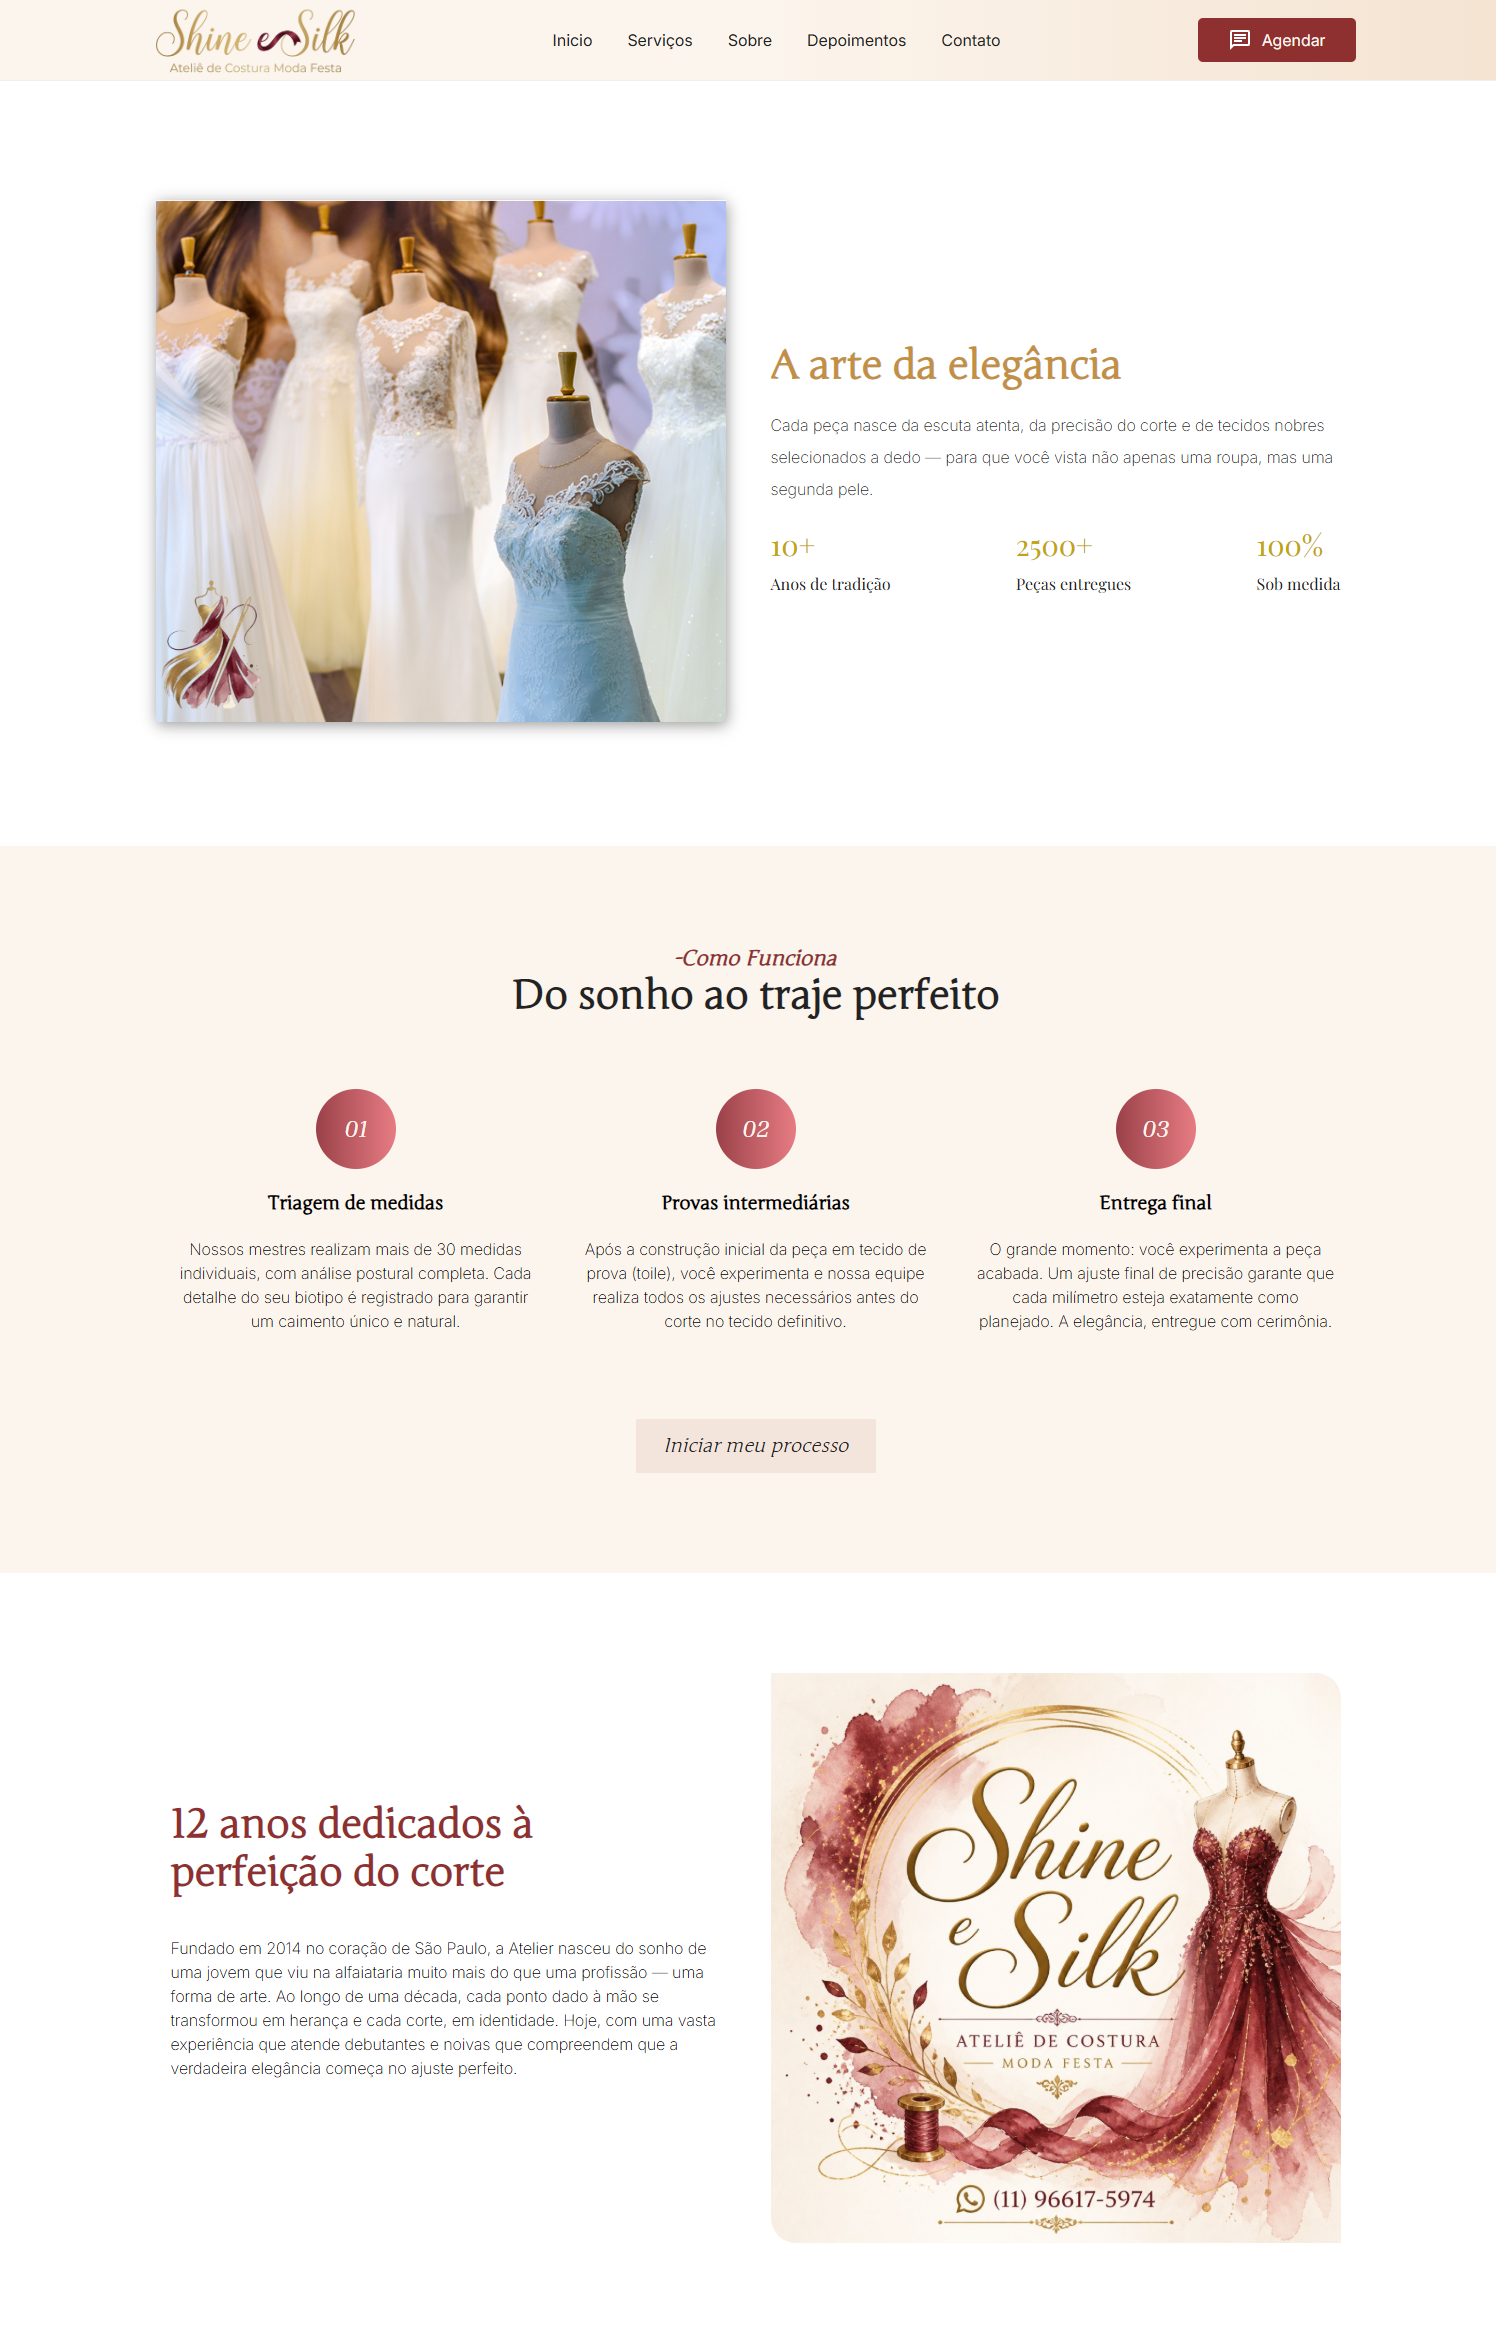
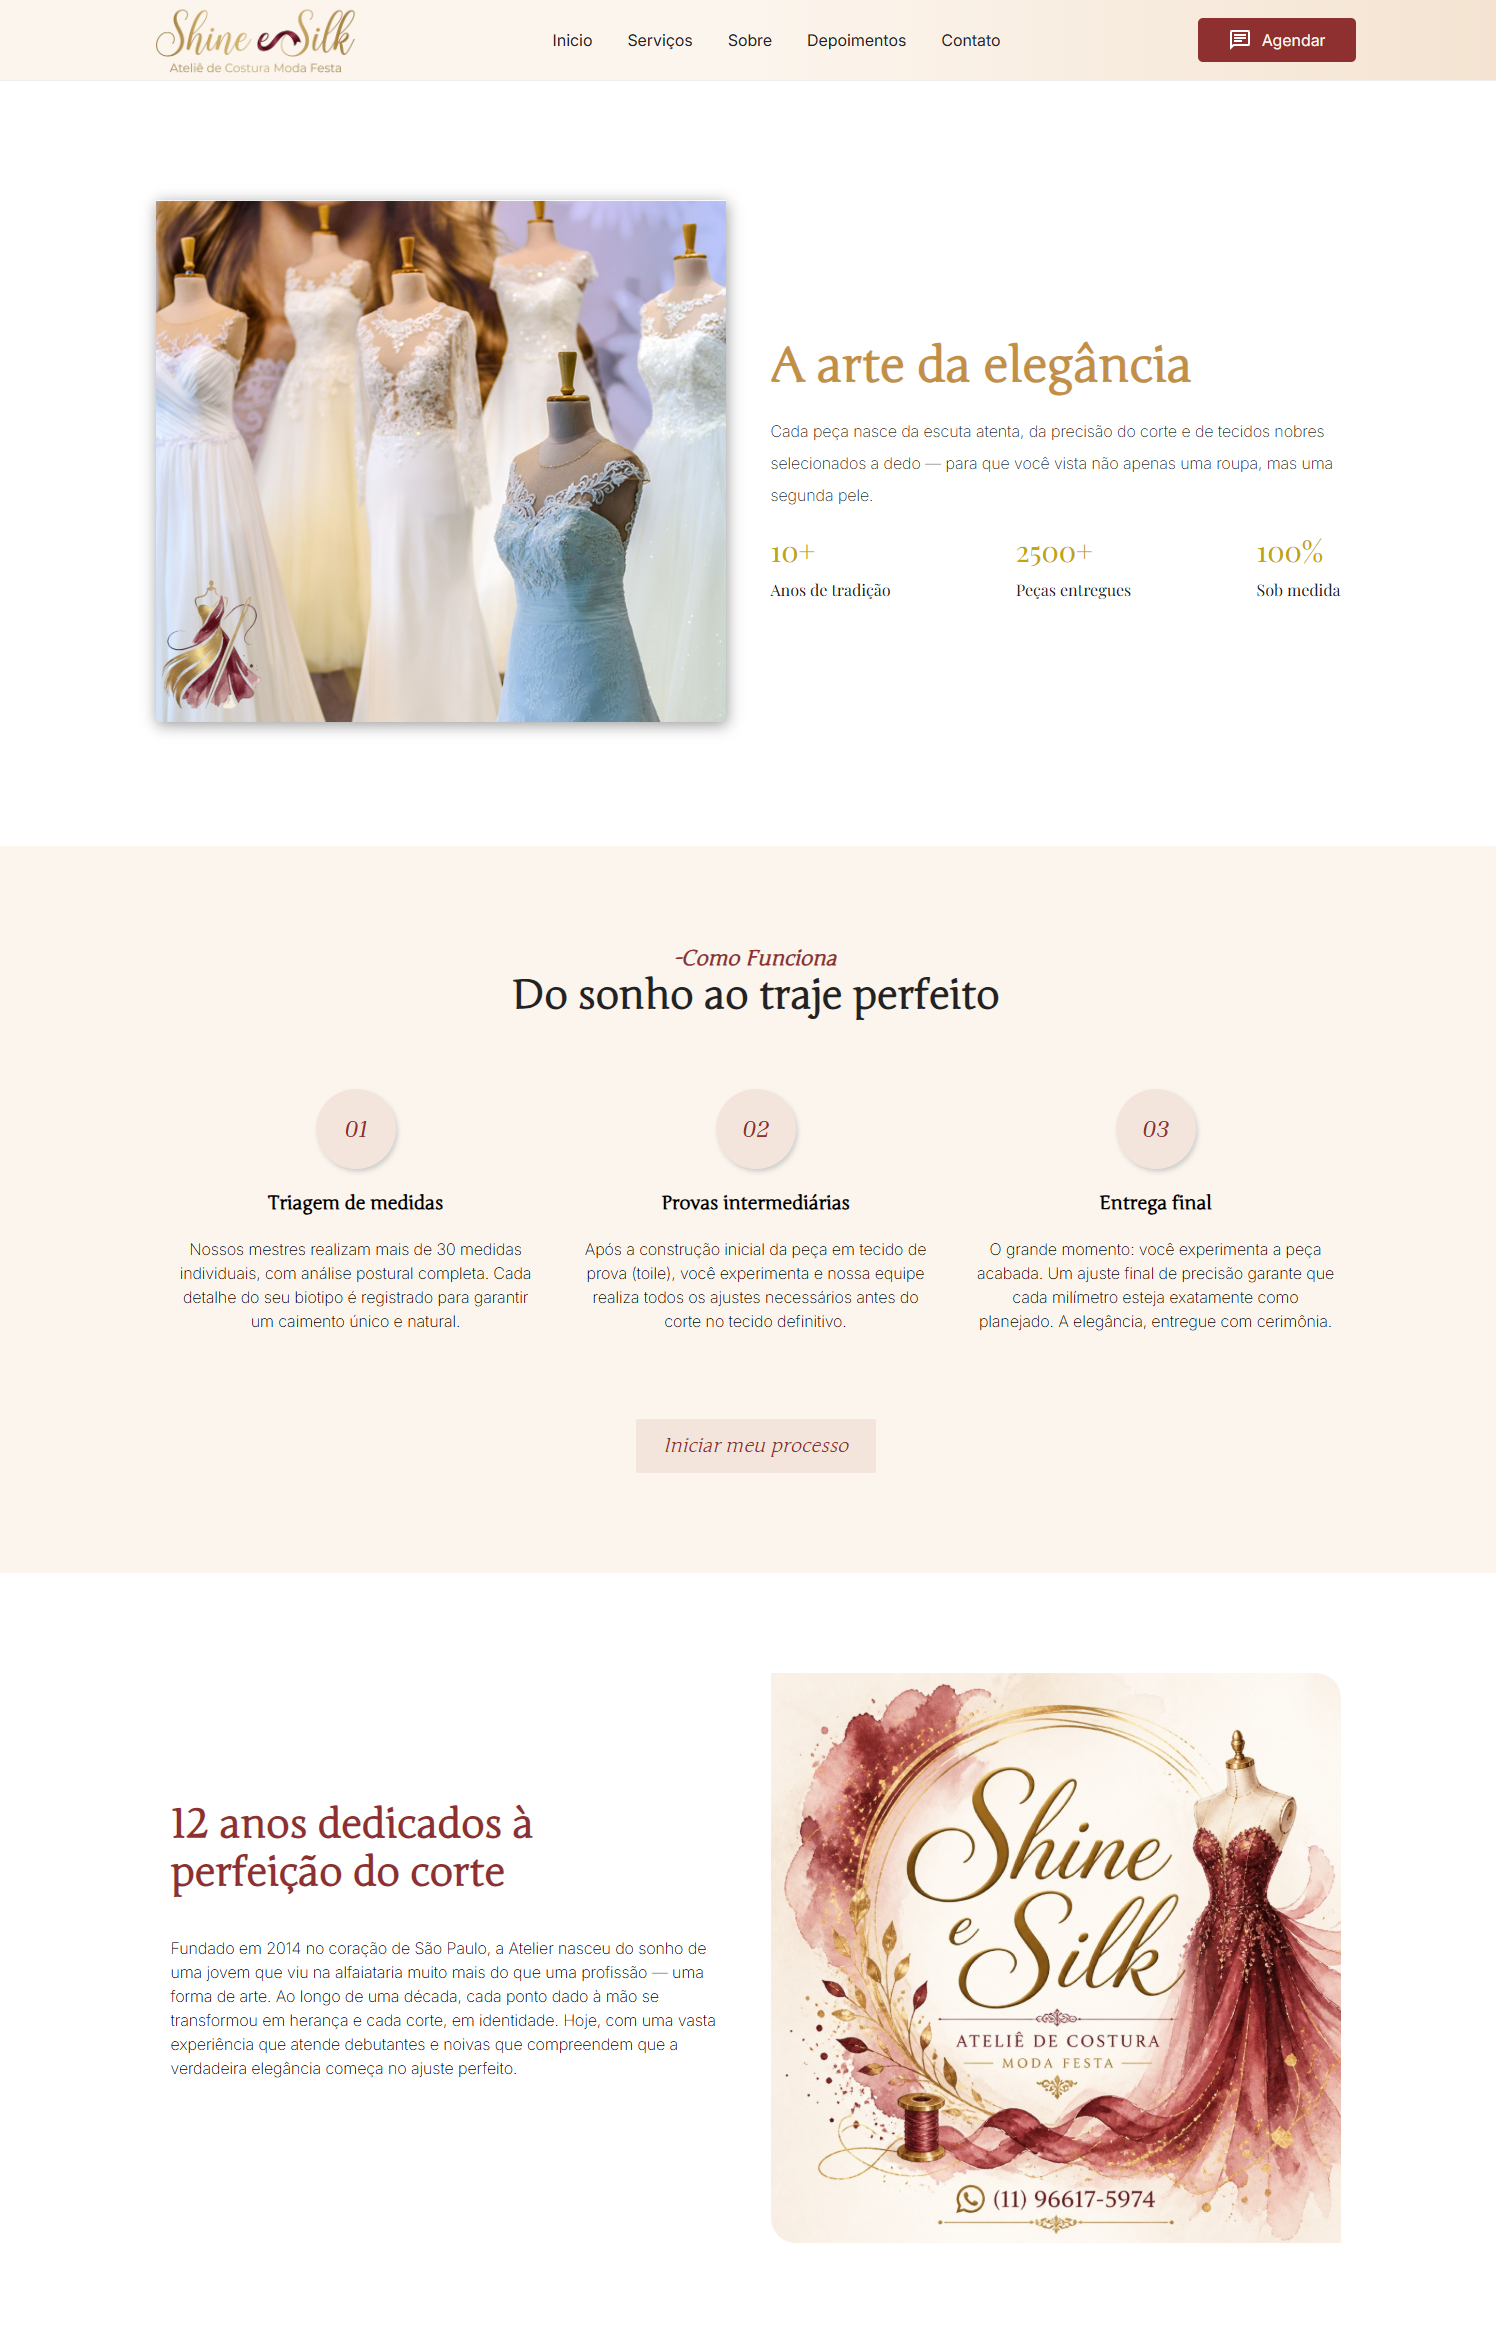
+ mudanças na seção serviços.

diff --git a/src/css/estilo.css b/src/css/estilo.css
@@ -236,8 +236,8 @@ header {
     width: 50px;
     height: 50px;
     border-radius: 50%;
-    background: linear-gradient(to right, #9b4149 ,#e77c83 );
-    color: var(--nova-cor-fundo-1);
+    background-color: #f3e5dc;   
+    color: var(--nova-cor-terciaria);
     display: flex;
     align-items: center;
     justify-content: center;
@@ -245,6 +245,7 @@ header {
     font-family: "Inria Serif", serif;
     font-style: italic;
     margin-top: 20px;
+    box-shadow: 2px 3px 5px #ddd;
 
 }
 
@@ -276,8 +277,9 @@ header {
     margin: 0px auto;
     text-align: center;
     cursor: pointer;
-    background-color: #f3e5dc;
-    color: #222;
+    background-color: #f3e5dc;   
+    /* background: linear-gradient(to right, #9b4149 ,#e77c83 ); */
+    color: var(--nova-cor-terciaria);
     font-family: "Junge", cursive;
     font-style: italic;
     font-size: 1.2rem;
@@ -412,7 +414,7 @@ header {
     }
 
     .titulo_hero {
-        width: 45%;
+        
         font-size: 3rem;
     }
 
